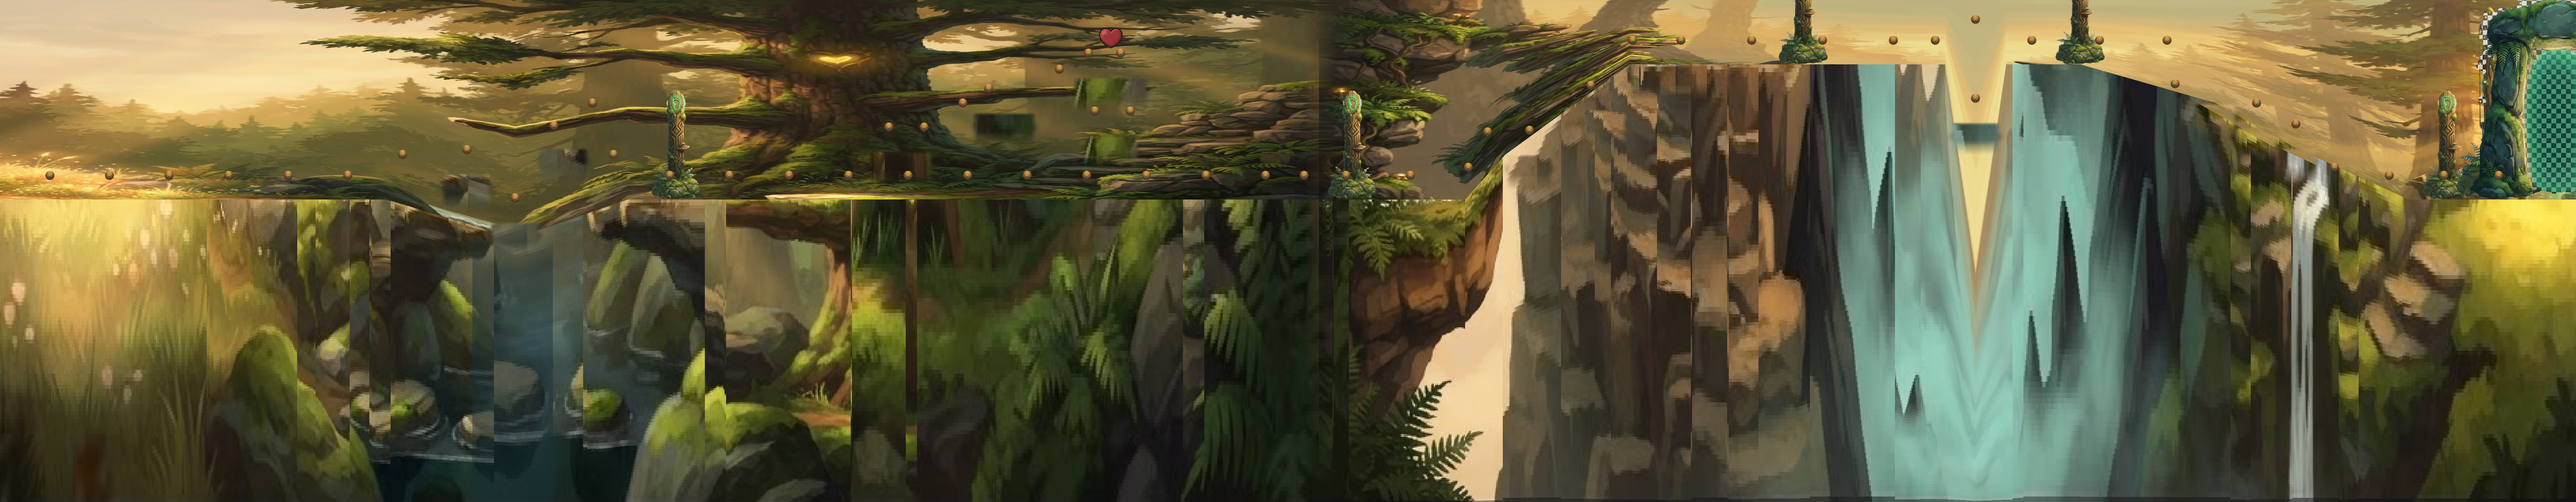
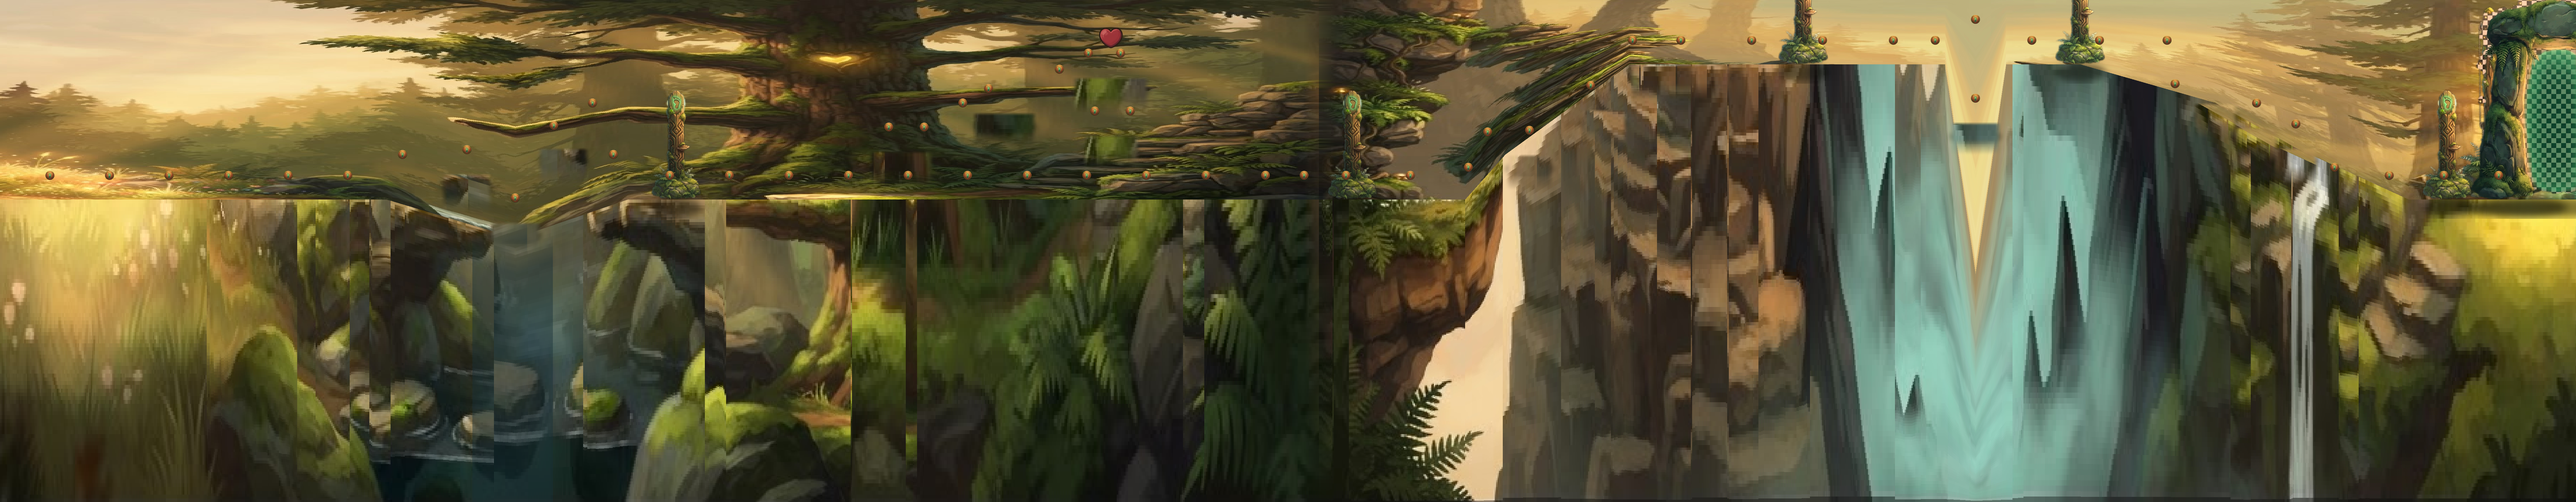
r1_depth_test v3: world props baked into the one painting (gate/portal/totems graded+feathered, painted shadows; only character/tokens/heart/effects remain sprites)

diff --git a/unity/Tools/render_engine_v3.py b/unity/Tools/render_engine_v3.py
@@ -1,0 +1,263 @@
+#!/usr/bin/env python3
+"""Skin pass v2 for r1_depth_test — all-new ONE-painting lore build.
+
+Doctrine (BudE, Sept 21 'lets skin it... all as one from our lore'):
+  - Geometry unchanged (audited GREEN).
+  - The painting is BORN from the layout: per-column vertical warp binds the
+    painted terrain line onto the collider height profile.
+  - Sky comes from the tall full-frame lore gen (real painted sky, 1:1 rows);
+    terrain comes from the letterboxed lore strips (2x horizontal detail vs
+    the old 1024 band; 2048 source columns for 8000 canvas).
+  - Float-anchor doctrine: every raised plat gets a world-anchored chunk sliced
+    from the warped painting at its own act position, so it reads as the lit
+    front extension of the structure (rock spine / cedar) painted behind it.
+  - Locked gameplay pieces composite at collider-exact positions.
+  - Numeric QC before delivery.
+"""
+import json
+import numpy as np
+from PIL import Image, ImageFilter, ImageDraw
+
+W, H = 8000, 1560
+
+d = json.load(open('levels/map_r1_depth_test.json'))
+plats, tokens = d['plats'], d['tokens']
+
+# ---------------- sources ----------------
+L1 = np.array(Image.open('art/lore_left.png').convert('RGB')).astype(np.uint8)    # 1024x1024 sky left
+R1 = np.array(Image.open('art/lore_right.png').convert('RGB')).astype(np.uint8)  # sky right
+L2 = np.array(Image.open('art/lore_left_v2.png').convert('RGB'))[389:634].astype(np.uint8)   # band 245
+R2 = np.array(Image.open('art/lore_right_v2.png').convert('RGB'))[384:633].astype(np.uint8)  # band 249
+
+BH_L, BH_R = L2.shape[0], R2.shape[0]
+HOR_L, HOR_R = 600, 430        # painted horizon rows in the v1 frames
+
+# ---------------- collider ground profile c(x) ----------------
+ANCHORS_C = [   # (canvas_x, canvas_row)  geometry-authored
+    (-400, 620), (1200, 620), (1600, 740), (1950, 620), (3580, 620),
+    (4550, 620), (4675, 480), (5060, 200), (5560, 200), (6040, 200),
+    (6135, 850), (6230, 200), (6460, 200), (6880, 320), (7130, 460),
+    (7480, 620), (8400, 620),
+]
+def c_at(x):
+    xs = [a[0] for a in ANCHORS_C]
+    if x <= xs[0]:  return ANCHORS_C[0][1]
+    if x >= xs[-1]: return ANCHORS_C[-1][1]
+    for i in range(len(ANCHORS_C) - 1):
+        if xs[i] <= x <= xs[i+1]:
+            t = (x - xs[i]) / (xs[i+1] - xs[i])
+            return ANCHORS_C[i][1] + (ANCHORS_C[i+1][1] - ANCHORS_C[i][1]) * t
+    return ANCHORS_C[-1][1]
+
+# ---------------- painted terrain line s2(x) in each strip ----------------
+def sky_mask(band):
+    lum = band.astype(int).mean(axis=2)
+    r, g = band[:,:,0].astype(int), band[:,:,1].astype(int)
+    return (lum > 168) | ((r > g + 15) & (lum > 140))
+
+def terrain_line(band):
+    h, w, _ = band.shape
+    sk = sky_mask(band)
+    out = np.zeros(w)
+    for x in range(w):
+        col = sk[:, x].astype(float)
+        y = h - 1
+        # top of the bottom-continuous non-sky region (allow 5% sky flecks)
+        run = 0
+        for yy in range(h - 1, 20, -1):
+            if col[yy] < 0.5:
+                run += 1
+            else:
+                if run >= 50:  # long ground run ends here
+                    y = yy + 1
+                    break
+                run = 0
+        out[x] = max(24, min(h - 80, y))
+    # smooth (median over 25 cols)
+    sm = np.copy(out)
+    for i in range(w):
+        lo, hi = max(0, i-12), min(w, i+13)
+        sm[i] = np.median(out[lo:hi])
+    return sm
+
+S_L = terrain_line(L2)
+S_R = terrain_line(R2)
+print('s2 left  (min/med/max):', int(S_L.min()), int(np.median(S_L)), int(S_L.max()))
+print('s2 right (min/med/max):', int(S_R.min()), int(np.median(S_R)), int(S_R.max()))
+
+# ---------------- canvas sources per column ----------------
+# halves: left covers x in [-400, 4100), right covers [4100, 8400)
+# seam feather: blend across [4050, 4150]
+def sources(x):
+    """Return (sky_ref, band_ref, band_col, band_h, feather) for canvas column x."""
+    if x < 4050:
+        f = max(0.0, (x - 3950) / 200.0) if x > 3950 else 0.0
+        bx = (x + 400) / 4500.0 * 1024
+        return 'L', 'L', min(1023, int(bx)), BH_L, f
+    elif x > 4150:
+        bx = (x - 4100) / 4300.0 * 1024
+        return 'R', 'R', min(1023, int(bx)), BH_R, 0.0
+    else:
+        f = (x - 4050) / 100.0
+        bxL = (x + 400) / 4500.0 * 1024
+        bxR = (x - 4100) / 4300.0 * 1024
+        return 'L', ('L', 'R'), (min(1023, int(bxL)), min(1023, int(bxR))), (BH_L, BH_R), f
+
+# ---------------- build canvas ----------------
+canvas = np.zeros((H, W, 3), dtype=np.uint8)
+sky_rows = np.arange(H)
+
+for x in range(W):
+    cx = x if x >= 0 else 0
+    sk, bd, bcol, bh, f = sources(x)
+    c = c_at(x)
+    ci = int(min(H - 2, max(2, round(c))))
+
+    # ---- sky (v1 frames, horizon-mapped, no stretch beyond ~1.5x) ----
+    def sky_col(side, csrc):
+        frame = L1 if side == 'L' else R1
+        hor = HOR_L if side == 'L' else HOR_R
+        # map canvas rows 0..ci -> v1 rows 0..hor
+        m = (sky_rows[:ci] / max(ci, 1)) * hor
+        return frame[m.astype(int), min(1023, int((cx + (400 if side == 'L' else -4100)) / (4500 if side == 'L' else 4300) * 1024)), :]
+    if isinstance(f, float) and f > 0 and isinstance(bd, tuple):
+        colsky = (sky_col('L', 0).astype(int) * (1 - f) + sky_col('R', 0).astype(int) * f).astype(np.uint8)
+    else:
+        colsky = sky_col(sk, 0)
+
+    # ---- terrain (v2 strips, per-column warp) ----
+    def terr_col(side, bcol_i, bh_i):
+        band = L2 if side == 'L' else R2
+        s = (S_L if side == 'L' else S_R)[bcol_i]
+        col = band[:, bcol_i, :]
+        below = H - ci
+        m = s + (np.arange(below) / max(below, 1)) * (bh_i - s)
+        m = np.clip(m, 0, bh_i - 1)
+        return col[m.astype(int)], s
+    if isinstance(bd, tuple):
+        tA, sA = terr_col('L', bcol[0], bh[0])
+        tB, sB = terr_col('R', bcol[1], bh[1])
+        colterr = (tA.astype(int) * (1 - f) + tB.astype(int) * f).astype(np.uint8)
+    else:
+        colterr, _ = terr_col(bd, bcol, bh)
+
+    col = np.zeros((H, 3), dtype=np.uint8)
+    col[:ci] = colsky
+    col[ci:] = colterr
+    canvas[:, x, :] = col
+
+print('warp complete')
+img = Image.fromarray(canvas)
+
+# ---------------- valley water tint (living-water zone) ----------------
+a = np.array(img).astype(int)
+for x in range(1150, 2050):
+    c = c_at(x)
+    if c > 700:
+        depth = np.arange(H - int(c))
+        tint = np.clip((depth - 30) / 180, 0, 0.45)[:, None]
+        a[int(c):, x, :] = (a[int(c):, x, :] * (1 - tint) + np.array([24, 48, 56]) * tint)
+img = Image.fromarray(a.astype(np.uint8))
+
+# ---------------- world-anchored chunks on raised plats (float-anchor doctrine) ----------------
+CEDAR_X = 3430      # world x of the painted cedar trunk in the warped canvas
+RIDGE_X = 6300      # world x of ridge rock material
+
+def add_chunk(img, cx, y, w, h, material_x, material_y):
+    left = int(cx - w / 2)
+    ch = int(min(h + 48, 250))
+    src_x = int(min(max(material_x, 0), W - int(w) - 1))
+    src = img.crop((src_x, int(material_y), src_x + int(w), int(material_y) + ch))
+    if src.size[0] <= 0 or src.size[1] <= 0:
+        return
+    chunk = src.copy()
+    cwid, chei = chunk.size
+    yy = np.arange(chei)[:, None]
+    xx = np.arange(cwid)[None, :]
+    mask = np.clip(yy / 7, 0, 1) * np.clip(np.minimum(xx, cwid - 1 - xx) / 16, 0, 1)
+    mask *= np.clip((chei - 8 - yy) / (chei * 0.45), 0, 1)
+    m = Image.fromarray((mask * 255).astype(np.uint8), 'L').filter(ImageFilter.GaussianBlur(2.5))
+    chunk.putalpha(m)
+    sh = Image.new('RGBA', (cwid * 2, 64), (0, 0, 0, 0))
+    dr = ImageDraw.Draw(sh)
+    dr.ellipse([cwid // 2, 22, cwid + cwid // 2, 58], fill=(8, 12, 6, 110))
+    sh = sh.filter(ImageFilter.GaussianBlur(8))
+    img.paste(Image.alpha_composite(Image.new('RGBA', sh.size, (0, 0, 0, 0)), sh).convert('RGB'),
+              (left - cwid // 2, int(y) + 4), sh)
+    img.paste(chunk, (left, int(y)), chunk)
+
+for px, py, pw, ph in plats:
+    if ph >= 400:      # tall blocks (ridge, valley walls) keep the warped painting
+        continue
+    if px < -300:     # spawn meadow slab
+        continue
+    # material: cedar branches sample the trunk; pit float samples ridge rock;
+    # everything else samples the ground at its own act x (world-anchored)
+    if 3300 <= px <= 4200 and py < 520:
+        mx, my = CEDAR_X, 760          # cedar trunk material
+    elif 6000 <= px <= 6300:
+        mx, my = RIDGE_X, 260          # ridge rock material
+    else:
+        mx, my = px, int(c_at(px)) + 8
+    add_chunk(img, px, py, pw, ph, mx, my)
+
+# ---------------- BAKED world props (doctrine: world objects live IN the painting) ----------------
+from PIL import ImageDraw
+
+def bake(img, path, target_h, cx, base_y, glow=0.0):
+    """Composite a locked prop INTO the painting, graded to the local palette."""
+    s = Image.open(path).convert('RGBA')
+    scale = target_h / s.size[1]
+    s = s.resize((max(1, int(s.size[0] * scale)), int(target_h)), Image.LANCZOS)
+    w, h = s.size
+    left, top = int(cx - w / 2), int(base_y - h)
+
+    # local grade: mean color of the painting around the prop (sky+ground mix)
+    win = img.crop((max(0, int(cx) - 300), max(0, int(base_y) - 900), int(cx) + 300, min(H - 1, int(base_y) + 150)))
+    wa = np.array(win).astype(float)
+    local = wa.reshape(-1, 3).mean(axis=0)
+    pa = np.array(s).astype(float)
+    mask = pa[:, :, 3] > 0
+    pmean = pa[:, :, :3][mask].mean(axis=0)
+    # shift prop 35% toward local grade (keeps its identity, matches the light)
+    gain = np.clip((0.65 * pmean + 0.35 * local) / np.maximum(pmean, 1), 0.75, 1.25)
+    pa[:, :, :3] = np.clip(pa[:, :, :3] * gain, 0, 255)
+    s = Image.fromarray(pa.astype(np.uint8))
+
+    # painted ground shadow
+    sh = Image.new('RGBA', (w * 3, 90), (0, 0, 0, 0))
+    dr = ImageDraw.Draw(sh)
+    dr.ellipse([w, 26, 2 * w, 82], fill=(10, 12, 6, 130))
+    sh = sh.filter(ImageFilter.GaussianBlur(10))
+    img.paste(Image.alpha_composite(Image.new('RGBA', sh.size, (0, 0, 0, 0)), sh).convert('RGB'),
+              (int(cx) - int(1.5 * w), int(base_y) - 30), sh)
+
+    # soft 2px feather on the prop edges so it melts into the painting
+    al = s.split()[3].filter(ImageFilter.GaussianBlur(1.5))
+    s.putalpha(al)
+
+    img.paste(s, (left, top), s)
+
+cp_plats = {2100: 620, 4200: 620, 5600: 200, 6460: 200, 7600: 620}
+# gate (6u) and portal (6.5u) baked at the finale, totems (3.4u) at every checkpoint
+bake(img, 'art/art_flaggate.png', 600, 7800, 620)
+bake(img, 'art/art_flagportal.png', 650, 7940, 620)
+for cp, y in cp_plats.items():
+    bake(img, 'art/art_checkpoint.png', 340, cp, y)
+
+# ---------------- living sprites only: character, tokens, heart ----------------
+def sprite(path, target_h, cx, base_y, dy=0):
+    s = Image.open(path).convert('RGBA')
+    scale = target_h / s.size[1]
+    s = s.resize((max(1, int(s.size[0] * scale)), int(target_h)), Image.LANCZOS)
+    img.paste(s, (int(cx - s.size[0] / 2), int(base_y - s.size[1] + dy)), s)
+
+sprite('art/whole_lily.png', 82, -200, 620)
+sprite('art/art_heart.png', 64, 3450, 240, dy=-90)
+
+tok = Image.open('art/art_token.png').convert('RGBA').resize((28, 28), Image.LANCZOS)
+for t in tokens:
+    img.paste(tok, (int(t['x']) - 14, int(t['y']) - 14), tok)
+
+img.save('art/render_depth_test_v3.png')
+print('saved art/render_depth_test_v3.png', img.size)
